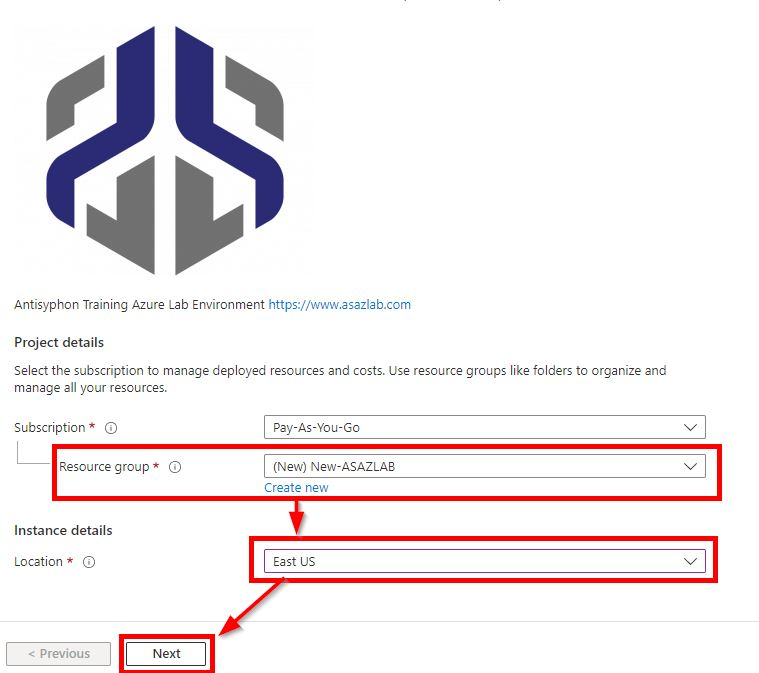
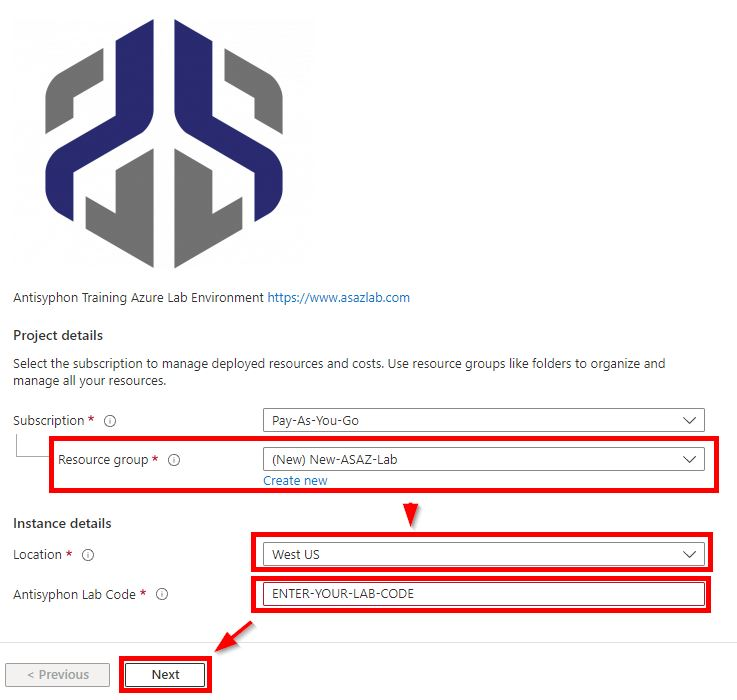
updated for lab code

Changed region(s): [[0.0, 0.0312, 0.9986, 1.0]]

diff --git a/labs/ASAZLab.md b/labs/ASAZLab.md
@@ -19,55 +19,51 @@ Deploy the Antisyhon Training AZLab from ASAZLab.com:
 
 [ASAZLab][ASAZLab]
 
-| ![](../images/prls2-1.jpg) |
-|----------------------------|
+ ![](../images/prls2-1.jpg)
+
 
 Or, you can view the operations in more detail on GitHub:
 [ASAZLab-Github][ASAZLab-Github]
 
-| ![](../images/prls2-2a.jpg)|
-|----------------------------|
-
-
-And, deploy via the README with one click!! 
+In either case, begin the deployment process by clicking "Deploy to Azure".
 
 **Be sure you are in a browser session you are either comfortable authenticating to Azure or you already have an authenticated session.**
 
-| ![](../images/prls2-2b.jpg) |
-|----------------------------|
-
-Next up you will choose your subscription, resource group, and region.  
+ ![](../images/prls2-2b.jpg) 
 
 
-| ![](../images/prls2-3.jpg) |
-|----------------------------|
+Next up you will choose your subscription, resource group, and region(location) and AntiSyphone Lab Class Code (this will be emailed to you before class).  
+
+
+![](../images/prls2-3.jpg)
+
 
 The VM size selection will default to B2s, A2,or A2_V2 depending on region selection and availability.  Generally B2s is least expensive if available. Any of these options are acceptable for the lab environment.
 
 Feel free to modify the size of your VMs should you so choose. The default selections made for this course have been tested thoroughly and represent a balance of performance and cost.
 
 
-|![](../images/prls2-4.jpg)|
-|----------------------------|
+![](../images/prls2-4.jpg)
 
 The next step in your custom deployment is to confirm the public IP space. Feel free to limit this range more specifically to your known and trusted addresses. 
 
 **Please be aware that a demonstration will be provided and a discussion around this exposure and that leaving this address wide open (0.0.0.0/0) presents an interesting perspective of the Internet and the risks of exposing services there.**
 
-| ![](../images/prls2-5.jpg) |
-|----------------------------|
+ ![](../images/prls2-5.jpg)
+
 
 That is pretty much it for the configuration of your ARM template based deployment of the DO AZ lab environment. The next screenshot includes a warning about agreeing to the terms on Microsoft.
 
-| ![](../images/prls2-6.jpg) |
-|----------------------------|
+ ![](../images/prls2-6.jpg) 
+
 
 Whether you agree or not, should you choose to click Create, you implicitly do.
 
-| ![](../images/prls2-7.jpg) |
-|----------------------------|
+ ![](../images/prls2-7.jpg) 
+
 
 The full deployment will take approximately 45 minutes.  You do not need to keep the window open, the process will continue even if you close it.  In the following section, you will configure the new lab environment to report logs to Azure Sentinel.  You must wait for deployment to complete before continuing.
+
 </blockquote>
 </details>
 
@@ -78,15 +74,15 @@ Gather your public IP addresses.
 
 **https://portal.azure.com/#home --> Resource groups --> <ASAZ_Lab_Resource_Group> --> Resources --> Filter --> "public"**
 
-| ![](../images/prls4-1.jpg) |
-|----------------------------|
+ ![](../images/prls4-1.jpg) 
+
 
 Click through each resource to gather the assigned public IP addresses.
 
-| ![](../images/prls4-2.jpg) |
-|----------------------------|
+ ![](../images/prls4-2.jpg) 
 
 As you gather them up, document them!   Be sure you have the following IP addresses documented to be ready for class.
+
 ```
 DC01 (pip-DC01) Public IP:
 SRV01 (pip-SRV01) Public IP:
